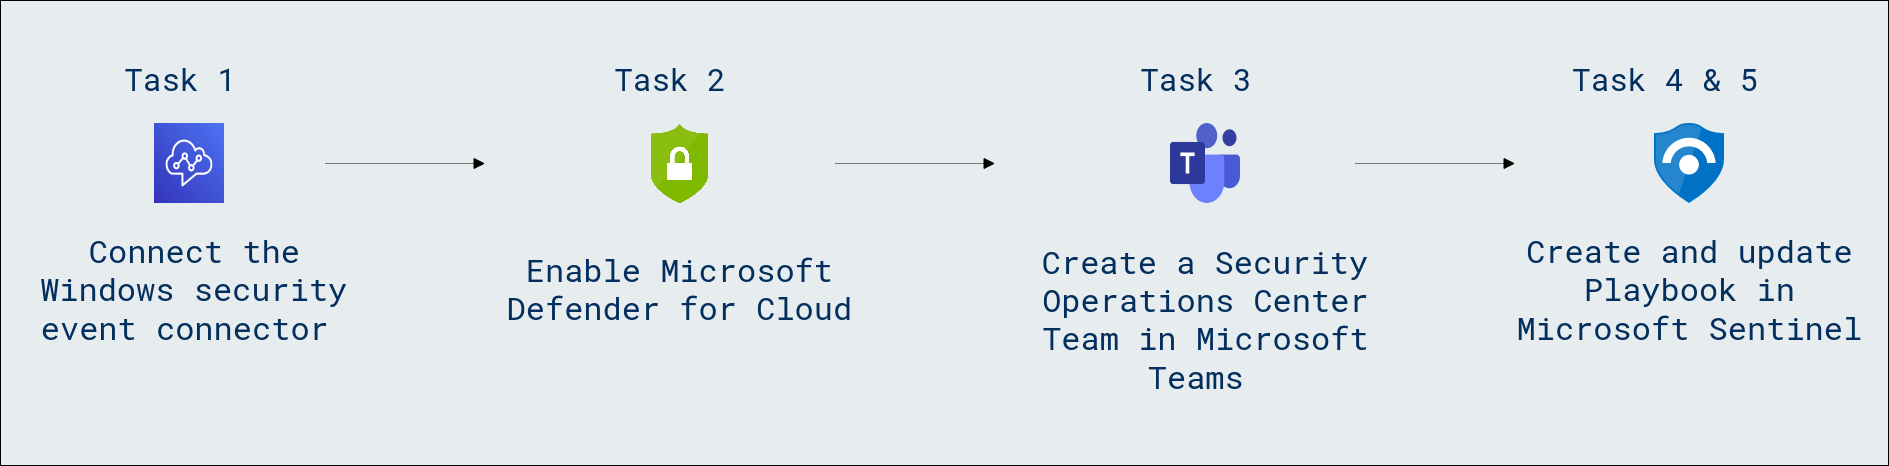
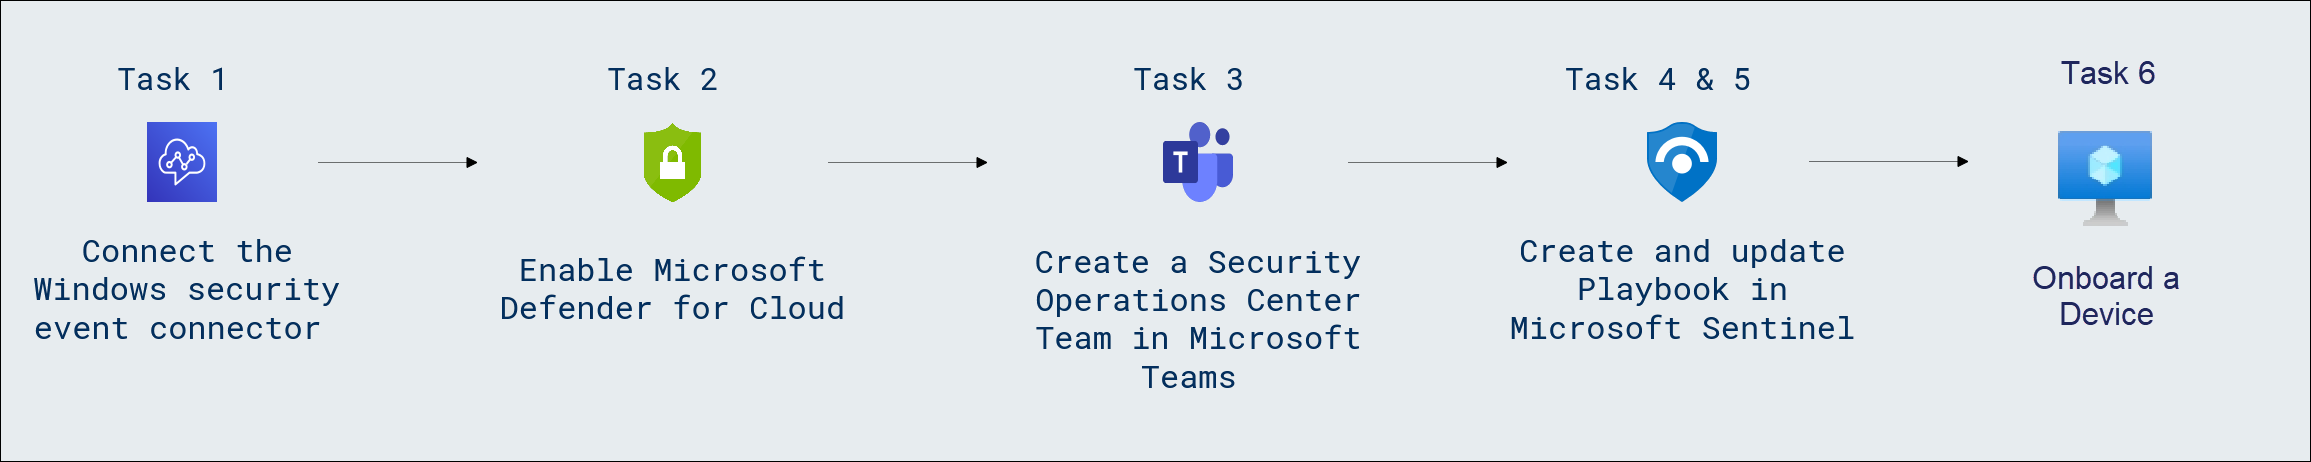
Updated

diff --git a/Labguide/Module 1/Lab-01.md b/Labguide/Module 1/Lab-01.md
@@ -16,7 +16,7 @@ You start by initializing the Defender for the Endpoint environment. Next, you o
 
 ## Architecture Diagram
 
-  ![Lab overview.](../media/lab-01.png)
+  ![Lab overview.](../media/01-1.png)
 
 ## Exercise 1: Exploring a Pre-Created Azure Sentinel Workspace
 

diff --git a/Labguide/Module 4/Lab-01.md b/Labguide/Module 4/Lab-01.md
@@ -20,7 +20,7 @@ You are a Security Operations Analyst working at a company that implemented Micr
 
 ## Architecture Diagram
 
- ![](../media/lab9-AD.png)
+ ![](../media/01-2.png)
 
 ### Task 1: Connect the Windows security event connector
 

diff --git a/Labguide/Module 5/Lab-01.md b/Labguide/Module 5/Lab-01.md
@@ -14,7 +14,7 @@ You're a Security Operations Analyst working at a company that implemented Micro
 
 ## Architecture Diagram
 
- ![Lab overview.](../media/lab-04.png)
+ ![Lab overview.](../media/01-3.png)
 
 ### Task 1: Onboard a Device
 
